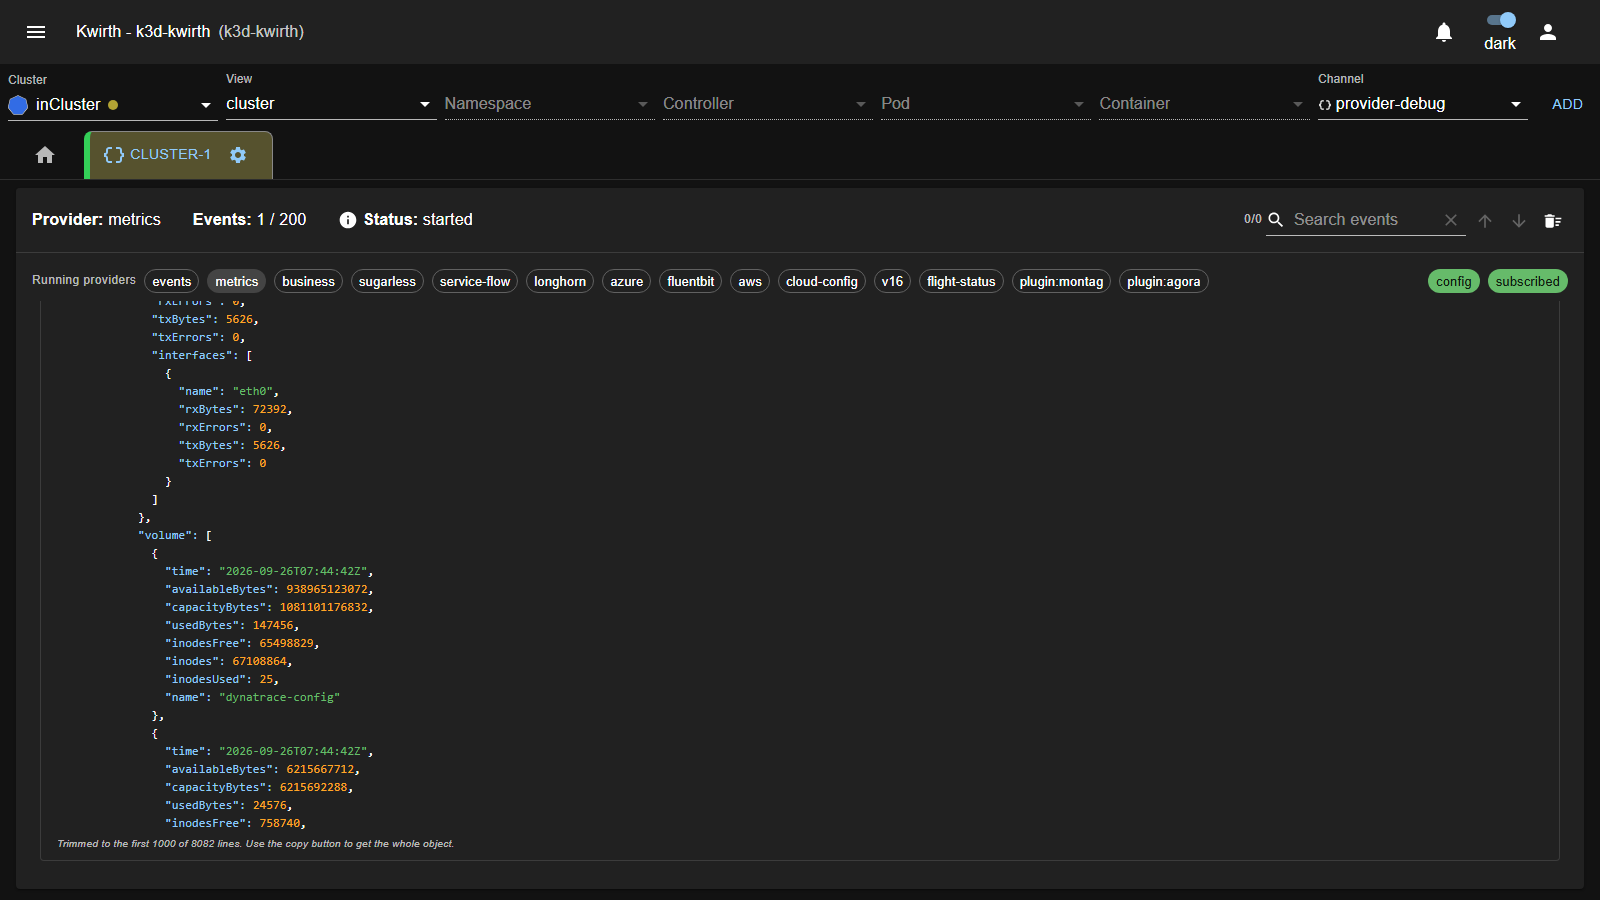
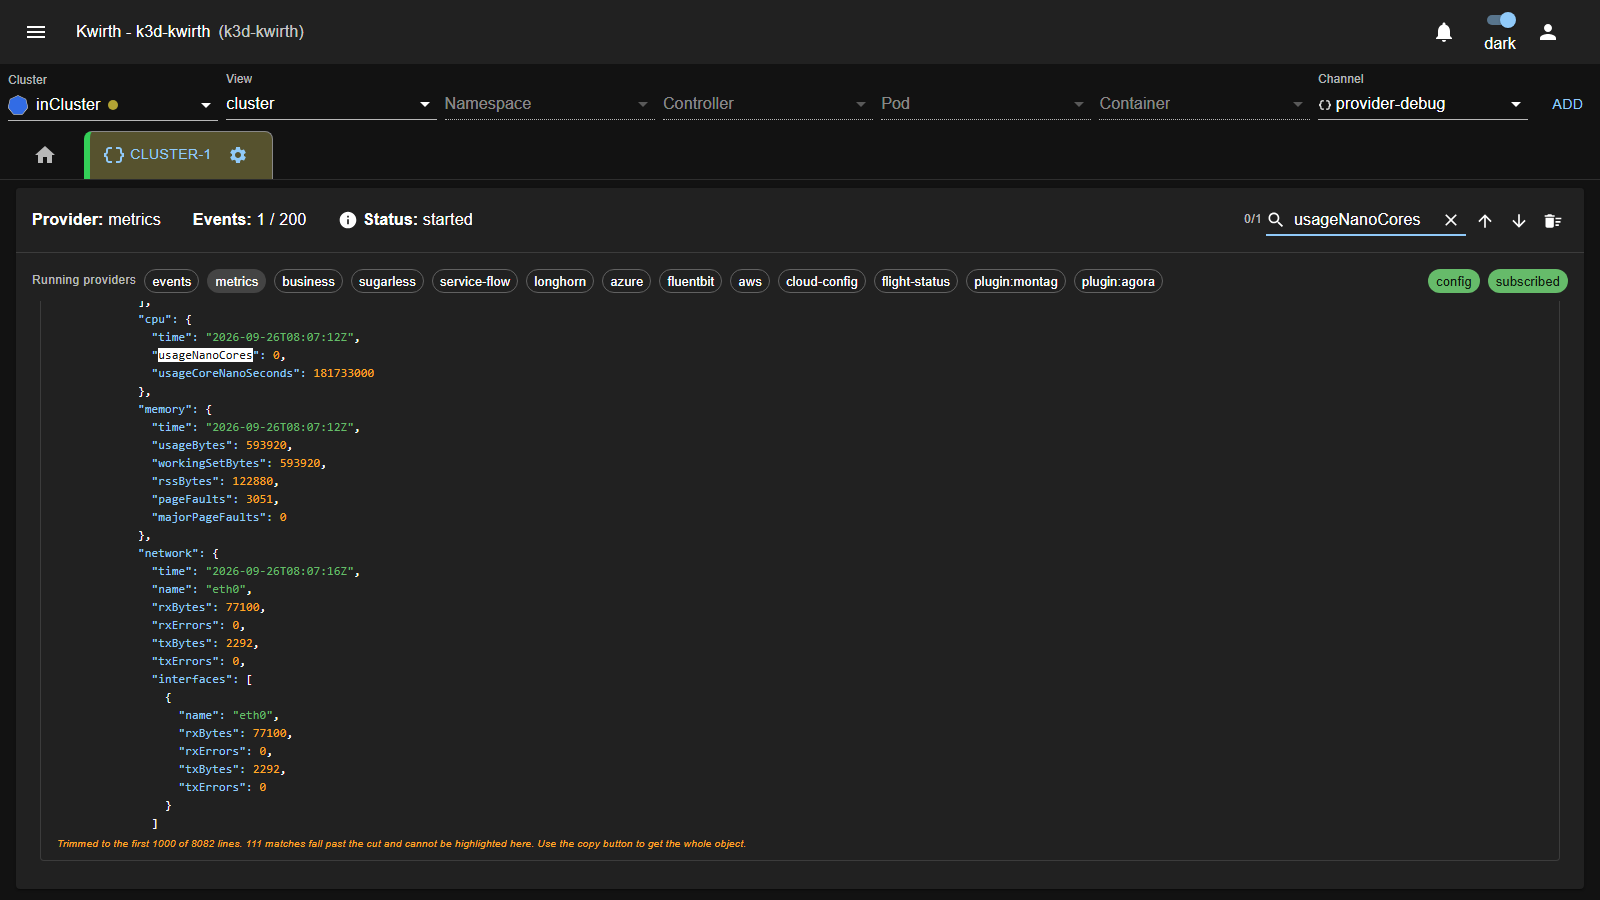
feat(provider-debug): el aviso de recorte cuenta las coincidencias que quedan fuera (0.1.8)
El buscador mira el evento COMPLETO, asi que tras el tope de 1000 lineas podia
anunciar coincidencias que no se veian por ningun lado, y saltar a una de ellas
aterrizaba en la tarjeta en vez de en un resaltado. Parecia que el buscador
mentia. En un evento de metrics de este cluster, buscar 'usageNanoCores' deja
111 coincidencias fuera del corte.

Ahora el pie lo dice -'N matches fall past the cut and cannot be highlighted
here'- y se tiñe de color de aviso cuando las hay. Se eligio avisar en vez de
contar solo sobre lo pintado: esa alternativa era mas barata pero mentia sobre
el evento, que es justo lo que este canal no puede permitirse.

Contar son dos pasadas lineales y solo corren si hay busqueda Y recorte.

El test no supone el caso, se lo gana: saca el objeto entero del portapapeles,
busca una clave que solo exista pasada la linea 1000 y busca esa. La captura de
la guia tambien asserta la frase antes de disparar, que una captura por si sola
no comprueba nada.

43 unit y 30 casos e2e. Guia, captura y tgz de docs al dia.

Changed region(s): [[0.0312, 0.3422, 0.4688, 0.9644], [0.5625, 0.28, 0.75, 0.3422], [0.8125, 0.2178, 0.875, 0.28]]

diff --git a/plugins/provider-debug/src/front/JsonBlock.tsx b/plugins/provider-debug/src/front/JsonBlock.tsx
@@ -63,19 +63,30 @@ export const JsonBlock: React.FC<IJsonBlockProps> = (props: IJsonBlockProps) => 
     }
 
     /** Serialises the event and trims it, so the cost of the cut is paid before tokenising. */
-    const serialize = (): { text: string, totalLines: number, trimmed: boolean } => {
+    const serialize = (): { text: string, full: string, totalLines: number, trimmed: boolean } => {
         let text: string
         try {
             text = JSON.stringify(props.value, null, 2) ?? String(props.value)
         }
         catch {
             // an event with circular references must not bring the tab down: that is exactly what we came to look at
-            return { text: '<unserializable event>', totalLines: 1, trimmed: false }
+            const unserializable = '<unserializable event>'
+            return { text: unserializable, full: unserializable, totalLines: 1, trimmed: false }
         }
 
         const lines = text.split('\n')
-        if (lines.length <= MAX_RENDERED_LINES) return { text, totalLines: lines.length, trimmed: false }
-        return { text: lines.slice(0, MAX_RENDERED_LINES).join('\n'), totalLines: lines.length, trimmed: true }
+        if (lines.length <= MAX_RENDERED_LINES) return { text, full: text, totalLines: lines.length, trimmed: false }
+        return { text: lines.slice(0, MAX_RENDERED_LINES).join('\n'), full: text, totalLines: lines.length, trimmed: true }
+    }
+
+    const occurrences = (haystack: string, needle: string): number => {
+        let count = 0
+        let at = haystack.indexOf(needle)
+        while (at >= 0) {
+            count++
+            at = haystack.indexOf(needle, at + needle.length)
+        }
+        return count
     }
 
     const render = (text: string): React.ReactNode[] => {
@@ -92,7 +103,26 @@ export const JsonBlock: React.FC<IJsonBlockProps> = (props: IJsonBlockProps) => 
         return nodes
     }
 
-    const { text, totalLines, trimmed } = serialize()
+    const { text, full, totalLines, trimmed } = serialize()
+
+    /*
+        Matches living past the cut. The search box counts over the WHOLE event, so without saying
+        this the counter would promise hits that are nowhere to be seen on screen, and jumping to one
+        of them would silently land on the card instead of on a highlight. Counting is two linear
+        scans and only runs when there is both a search and a cut.
+    */
+    const needle = (props.highlight ?? '').trim().toLowerCase()
+    const hiddenMatches = (trimmed && needle !== '')
+        ? occurrences(full.toLowerCase(), needle) - occurrences(text.toLowerCase(), needle)
+        : 0
+
+    const notice = (): string => {
+        const head = `Trimmed to the first ${MAX_RENDERED_LINES} of ${totalLines} lines.`
+        const tail = 'Use the copy button to get the whole object.'
+        if (hiddenMatches === 0) return `${head} ${tail}`
+        const hits = hiddenMatches === 1 ? '1 match falls' : `${hiddenMatches} matches fall`
+        return `${head} ${hits} past the cut and cannot be highlighted here. ${tail}`
+    }
 
     return (
         <>
@@ -100,8 +130,8 @@ export const JsonBlock: React.FC<IJsonBlockProps> = (props: IJsonBlockProps) => 
                 {render(text)}
             </Box>
             {trimmed &&
-                <Box sx={{ mt: 0.5, fontSize: '0.65rem', fontStyle: 'italic', color: 'text.secondary' }}>
-                    {`Trimmed to the first ${MAX_RENDERED_LINES} of ${totalLines} lines. Use the copy button to get the whole object.`}
+                <Box sx={{ mt: 0.5, fontSize: '0.65rem', fontStyle: 'italic', color: hiddenMatches > 0 ? 'warning.main' : 'text.secondary' }}>
+                    {notice()}
                 </Box>
             }
         </>

diff --git a/plugins/provider-debug/e2e/tests/01-channel.spec.ts b/plugins/provider-debug/e2e/tests/01-channel.spec.ts
@@ -318,6 +318,31 @@ test('each event can be copied without collapsing its card', async () => {
     await expect(page.getByText('"metricsInterval"').first()).toBeVisible()
 })
 
+test('the notice warns about matches that fall past the cut', async () => {
+    /*
+        Se busca un termino que SOLO exista pasada la linea 1000, calculado desde el objeto entero
+        que da el boton de copiar: asi el caso es real y no depende de que claves tenga el cluster.
+        Si no hubiera ninguno (todas las claves del final ya salen antes), no hay caso que probar.
+    */
+    const full = await page.evaluate(() => navigator.clipboard.readText())
+    const lines = full.split('\n')
+    const keyOf = (line: string): string | undefined => (line.match(/^\s*"([^"]+)"\s*:/) ?? [])[1]
+    const early = new Set(lines.slice(0, 1000).map(keyOf).filter(Boolean))
+    const term = lines.slice(1000).map(keyOf).find(k => k !== undefined && !early.has(k))
+    test.skip(term === undefined, 'este evento no tiene ninguna clave exclusiva de mas alla de la linea 1000')
+
+    await page.getByLabel('Search events').fill(term!)
+
+    const notice = page.getByText(/^Trimmed to the first \d+ of \d+ lines/)
+    await expect(notice).toBeVisible()
+    await expect(notice).toContainText(/\d+ match(es)? falls? past the cut and cannot be highlighted here/)
+    await expect(notice).toContainText('Use the copy button to get the whole object')
+
+    // y sin busqueda el aviso vuelve a ser el corto, sin hablar de coincidencias
+    await page.getByRole('button', { name: 'Clear search' }).click()
+    await expect(notice).not.toContainText('past the cut')
+})
+
 test('expanding a card is not animated', async () => {
     // Un evento puede traer miles de lineas: animar el despliegue lo deja ilegible mientras crece.
     // MUI vuelca el timeout del Collapse a transition-duration, asi que es asertable de verdad.

diff --git a/plugins/provider-debug/e2e/tests/zz-capture.spec.ts b/plugins/provider-debug/e2e/tests/zz-capture.spec.ts
@@ -76,11 +76,15 @@ test('capture', async ({ page }) => {
     await page.waitForTimeout(1200)
     await page.screenshot({ path: `${MEDIA}/channel-provider-debug-view.png` })
 
-    // 3) el aviso de recorte al final de un evento largo. Se limpia la busqueda antes para que la
-    // captura no lleve resaltados de la anterior.
-    await page.getByRole('button', { name: 'Clear search' }).click()
+    /*
+        3) El aviso de recorte al final de un evento largo, en su variante mas informativa: con una
+        busqueda cuyas coincidencias caen fuera del corte. Se ASERTA antes de capturar, porque una
+        captura por si sola no comprueba nada y esta ilustra justo esa frase en la guia.
+    */
+    await page.getByLabel('Search events').fill('usageNanoCores')
     const notice = page.getByText(/^Trimmed to the first \d+ of \d+ lines/)
     await expect(notice).toBeVisible()
+    await expect(notice).toContainText(/\d+ match(es)? falls? past the cut/)
     await notice.scrollIntoViewIfNeeded()
     await page.mouse.move(800, 700)
     await page.waitForTimeout(900)

diff --git a/plugins/provider-debug/docs/qa/test-metrics-history.md b/plugins/provider-debug/docs/qa/test-metrics-history.md
@@ -12,6 +12,7 @@
 
 | Fecha | Versión / tag | Harness | Cobertura (líneas / ramas / funcs) | e2e (specs / casos) | Notas |
 |---|---|---|---|---|---|
+| 2026-09-26 | `plugin/provider-debug@0.1.8` | **43** | **97.62% / 91.87% / 90.06%** | 3 / 30 | **El aviso de recorte ahora cuenta las coincidencias que se quedan fuera.** El buscador cuenta sobre el evento COMPLETO, así que tras el tope de 1000 líneas podía anunciar coincidencias que no se veían por ningún lado, y saltar a una de ellas aterrizaba en la tarjeta en vez de en un resaltado: parecía que el buscador mentía. El aviso del pie lo dice ahora explícitamente —*«N matches fall past the cut and cannot be highlighted here»*— y se pone en color de aviso cuando las hay. Contar son dos pasadas lineales y solo se hacen si hay búsqueda **y** recorte. **+1 test** que se gana el caso en vez de suponerlo: saca el objeto entero del portapapeles, busca una clave que solo exista pasada la línea 1000 y busca esa; si el evento no tuviera ninguna, se salta explicando por qué, en vez de dar un verde vacío. |
 | 2026-09-26 | `plugin/provider-debug@0.1.7` | **43** | **97.62% / 91.87% / 90.06%** | 3 / 29 | **Tope de 1000 líneas al pintar un evento.** Un evento de `metrics` de este cluster pasa de 1000 líneas —medido por el propio e2e—, y pintarlas todas cuesta tokenizar el JSON entero y montar miles de `<span>` por tarjeta, para que nadie lea la línea 4000 bajando a rueda. Ahora se recorta antes de tokenizar (el coste del corte se paga una vez, no por token) y debajo queda un aviso más pequeño diciendo cuántas líneas hay en total y que **el botón de copiar sigue dando el objeto entero** — que es cierto: copia desde el evento, no desde el texto pintado. **+1 test** que asegura la invariante «nunca más de 1000 líneas pintadas» pase lo que pase, y que si el aviso aparece sus números cuadran con lo pintado; el test no exige que este evento concreto se recorte, porque eso depende del cluster. ⚠ **Efecto colateral conocido**: el contador de búsqueda cuenta sobre el JSON COMPLETO, así que puede decir 3 coincidencias y verse resaltadas solo las que caen dentro del recorte. Queda en el backlog. 🐛 **Un e2e atado al inventario otra vez**: dos casos exigían `otel`, que ya no está instalado; pasan a `business` —hoy el único vivo sin `getSubscriptionHelp()`— con nota de qué hacer si algún día publica ayuda. Es la misma lección que ya dejó escrita el caso del provider parado: no nombrar extensiones instaladas. |
 | 2026-09-20 | `plugin/provider-debug@0.1.4` | **43** | **97.58% / 91.67% / 90.42%** | 3 / 28 | **Un provider mal escrito ya no puede tumbar el core desde este canal.** `addSubscriber()` y `removeSubscriber()` son async y aquí no se esperaban: lo que fallase al otro lado no acababa en una señal de este canal, acababa en un **unhandled rejection**, y el core sale por su propio handler. Pasó de verdad — suscribirse a `trivy` sin payload mataba Kwirth entero (`reportTypes is not iterable`, arreglado en `provider/trivy@0.1.9`). Ahora el alta y la baja van con su `catch`: el alta manda la señal de error a quien está mirando y la baja se anota en el log, y en los dos casos la instancia se cierra igual. Es el último sitio donde vale asumir que el productor está bien escrito: este canal existe precisamente para hurgar en providers ajenos, y ya trataba así su `getSubscriptionHelp()`. **+2 tests** con dos dobles nuevos (`withBrokenSubscribe`/`withBrokenUnsubscribe`); `node --test` falla el fichero si queda un rechazo sin atender, así que cazan la regresión por sí solos. |
 | 2026-09-19 | `plugin/provider-debug@0.1.3` | **41** | **97.47% / 91.19% / 89.74%** | 3 / 28 | **Depurar PLUVIDERS y rediseño del diálogo de setup.** Un pluvider —un plugin que además publica su información in-process— se lista, se configura y se depura **igual que un provider**: el canal resuelve por el prefijo `plugin:` contra el registro de pluviders en vez de contra `clusterInfo.providers`, y para quien depura la diferencia es solo un chip. El catálogo los marca con `pluvider: true` y su descripción, y el mensaje de "no disponible" es propio: un pluvider ausente suele ser un plugin que ni está instalado, no un provider que nadie arrancó. **Diálogo de setup rehecho en tres pestañas** (Overview / Form / JSON) dentro de un cuadro titulado con el id del productor —ni la descripción ni los campos son del diálogo, los declara el productor—, con `USE EXAMPLE` en Overview rellenando el payload y saltando a Form; form y JSON editan el MISMO estado, así que no hay dos sitios que sincronizar. 🐛 **Bug anterior al pluvider**: el `Tab` de Form estaba envuelto en un `Tooltip`, así que no era hijo directo de `Tabs` y no recibía su `onChange` — se salía a JSON y no se podía volver. 🐛 **Dos e2e atados al inventario**: exigían `kafka` y `otel` por id y se pusieron rojos el día que kafka dejó de estar instalado; ahora comprueban que la lista llega poblada y con el estado resuelto, sin nombrar extensiones instaladas. El caso "provider parado" se salta cuando el entorno no tiene ninguno (no se puede provocar desde la UI; la lógica la cubre el harness). Añadido soporte `COVERAGE=1` al runner, que no lo tenía. ⚠ **La medición cambió en este punto**: hasta aquí el informe promediaba un bundle por fichero de test, cada uno con su propia copia del src y su parcela cubierta, así que daba muy por debajo de lo real. Desde ahora COVERAGE=1 genera un entry único (una sola copia del src) y el número es la UNIÓN. El salto respecto a la fila anterior es de medición, no de tests. |

diff --git a/plans/provider-debug/PLAN.md b/plans/provider-debug/PLAN.md
@@ -101,12 +101,16 @@ Plugin de canal para inspeccionar qué emite realmente un provider. Público, op
    - El aviso no miente: el botón de copiar serializa desde el evento, no desde el texto pintado.
    - Descartado hacerlo configurable: no se pidió y `maxEvents` ya es la única perilla del diálogo.
 
+10. **El aviso de recorte cuenta las coincidencias que quedan fuera.** El buscador mira el evento
+   COMPLETO, así que tras el tope podía anunciar coincidencias invisibles y el salto aterrizaba en
+   la tarjeta en vez de en un resaltado: parecía que el buscador mentía. Ahora el pie lo dice
+   —*«N matches fall past the cut and cannot be highlighted here»*— y se tiñe de color de aviso.
+   - Se eligió **avisar** en vez de contar solo sobre lo pintado: esa alternativa era más barata
+     pero mentía sobre el evento, que es justo lo que este canal no puede permitirse.
+   - Contar son dos pasadas lineales y solo corren si hay búsqueda **y** recorte.
+
 ### Pendiente
 
-10. **El buscador cuenta sobre el JSON completo**, así que puede anunciar coincidencias que caen
-   pasado el recorte y no se resaltan en pantalla; el salto a la coincidencia degrada entonces a
-   centrar la tarjeta. Opciones: contar solo sobre lo pintado (barato, pero miente sobre el evento)
-   o indicar cuántas quedan fuera (honesto, algo más de trabajo).
 11. Autoscroll con anclaje al fondo.
 12. Plantillas de payload por provider conocido — el matiz de `events` (sin `kinds` no entrega
    nada) es justo lo que hace falta que la UI enseñe sola.

diff --git a/docs/0.6.31/guide/extensions/plugins/provider-debug.md b/docs/0.6.31/guide/extensions/plugins/provider-debug.md
@@ -74,7 +74,9 @@ A single `metrics` event on a modest cluster already runs to some eight thousand
 
 The cut is only about what is painted. The **copy** button always yields the **complete** object, because it serialises the event itself rather than the text on screen — so the way to read a huge event end to end is to copy it and paste it into your editor.
 
-One consequence worth knowing: the search counter counts over the **whole** event, so it can report matches that fall past the cut and are therefore not highlighted on screen.
+**The note also keeps the search box honest.** Searching looks inside the whole event, not just the painted part, so it can find matches that live past the cut and cannot be highlighted anywhere on screen. When that happens the note says how many and turns to the warning colour — in the capture above, a search for `usageNanoCores` matches 111 times beyond line 1000. Without that line the search would look broken: it would claim hits you could not find, and jumping to one of them lands on the card rather than on a highlight.
+
+If every match falls inside the painted part, the note stays grey and says nothing about matches.
 
 ### Searching
 
